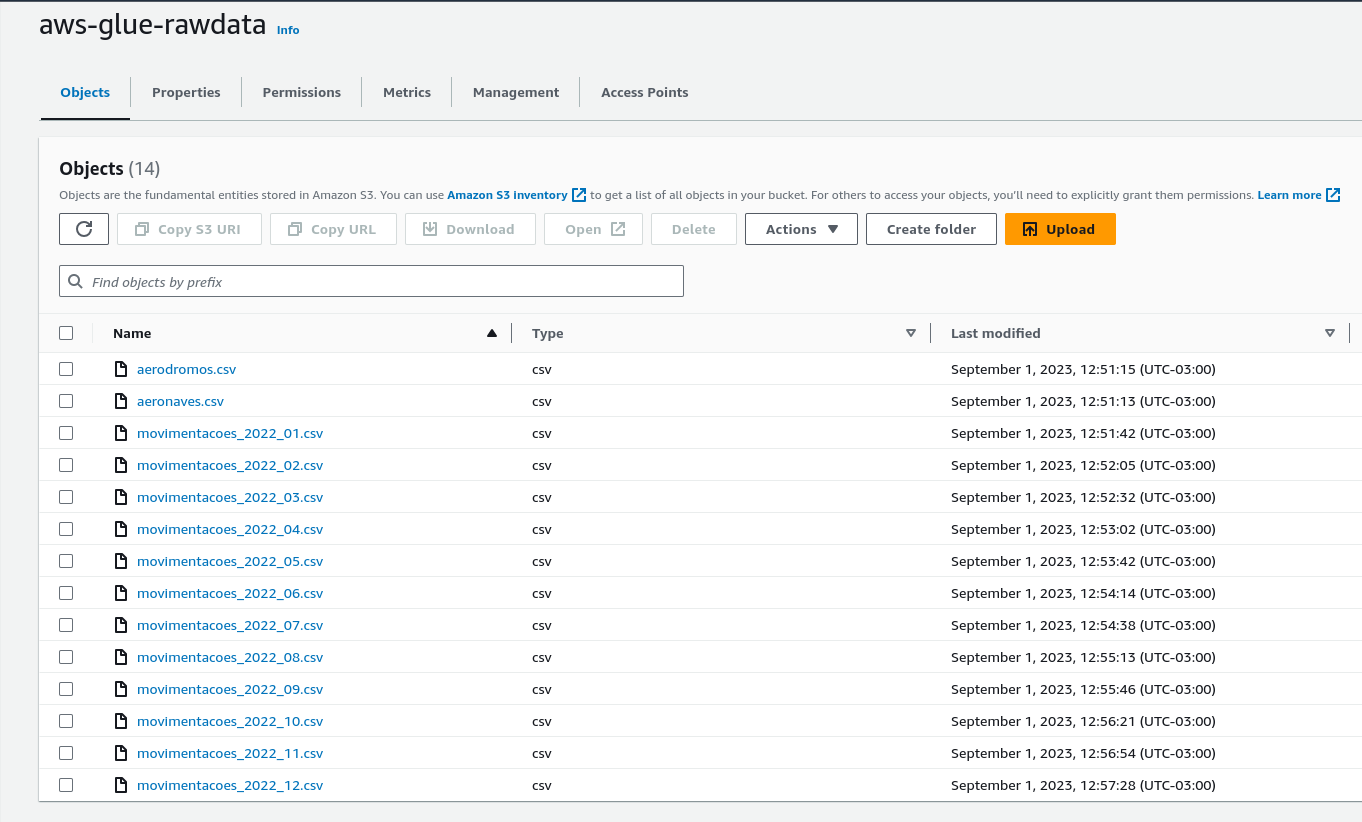
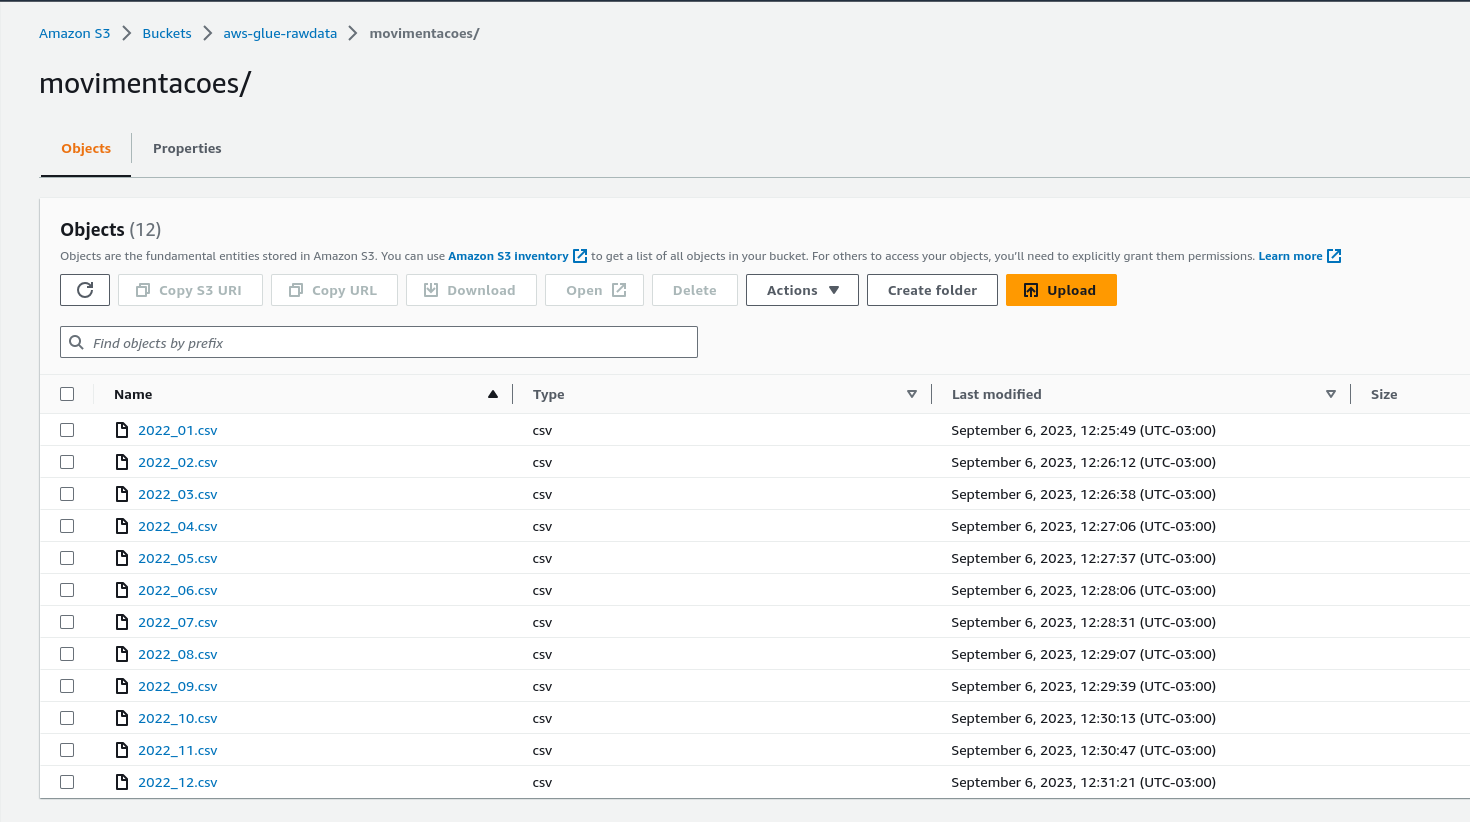
Updating images

diff --git a/engenharia-de-dados/mvp/scripts/anac-collect.py b/engenharia-de-dados/mvp/scripts/anac-collect.py
@@ -4,17 +4,8 @@ import boto3
 # s3 setup
 s3_client = boto3.client('s3', region_name='us-east-1')
 
-# areronaves
-req = requests.get(url='https://www.anac.gov.br/acesso-a-informacao/dados-abertos/areas-de-atuacao/aeronaves/registro-aeronautico-brasileiro/aeronaves-registradas-no-registro-aeronautico-brasileiro-csv')
-s3_client.put_object(Body=req.text, Bucket='aws-glue-rawdata', Key='aeronaves.csv')
-
-# aerodromos
-req = requests.get(url='https://sistemas.anac.gov.br/dadosabertos/Aerodromos/Lista%20de%20aer%C3%B3dromos%20p%C3%BAblicos/AerodromosPublicos.csv')
-s3_client.put_object(Body=req.text, Bucket='aws-glue-rawdata', Key='aerodromos.csv')
-
 # movimentacoes
 for m in range(1,13):
     m_str = f"{m:02}"
     req = requests.get(url=f'https://sistemas.anac.gov.br/dadosabertos/Operador%20Aeroportu%C3%A1rio/Dados%20de%20Movimenta%C3%A7%C3%A3o%20Aeroportu%C3%A1rias/2022/Movimentacoes_Aeroportuarias_2022{m_str}.csv')
-    s3_client.put_object(Body=req.text, Bucket='aws-glue-rawdata', Key=f'movimentacoes_2022_{m_str}.csv')
-
+    s3_client.put_object(Body=req.text, Bucket='aws-glue-rawdata', Key=f'movimentacoes/2022_{m_str}.csv')
